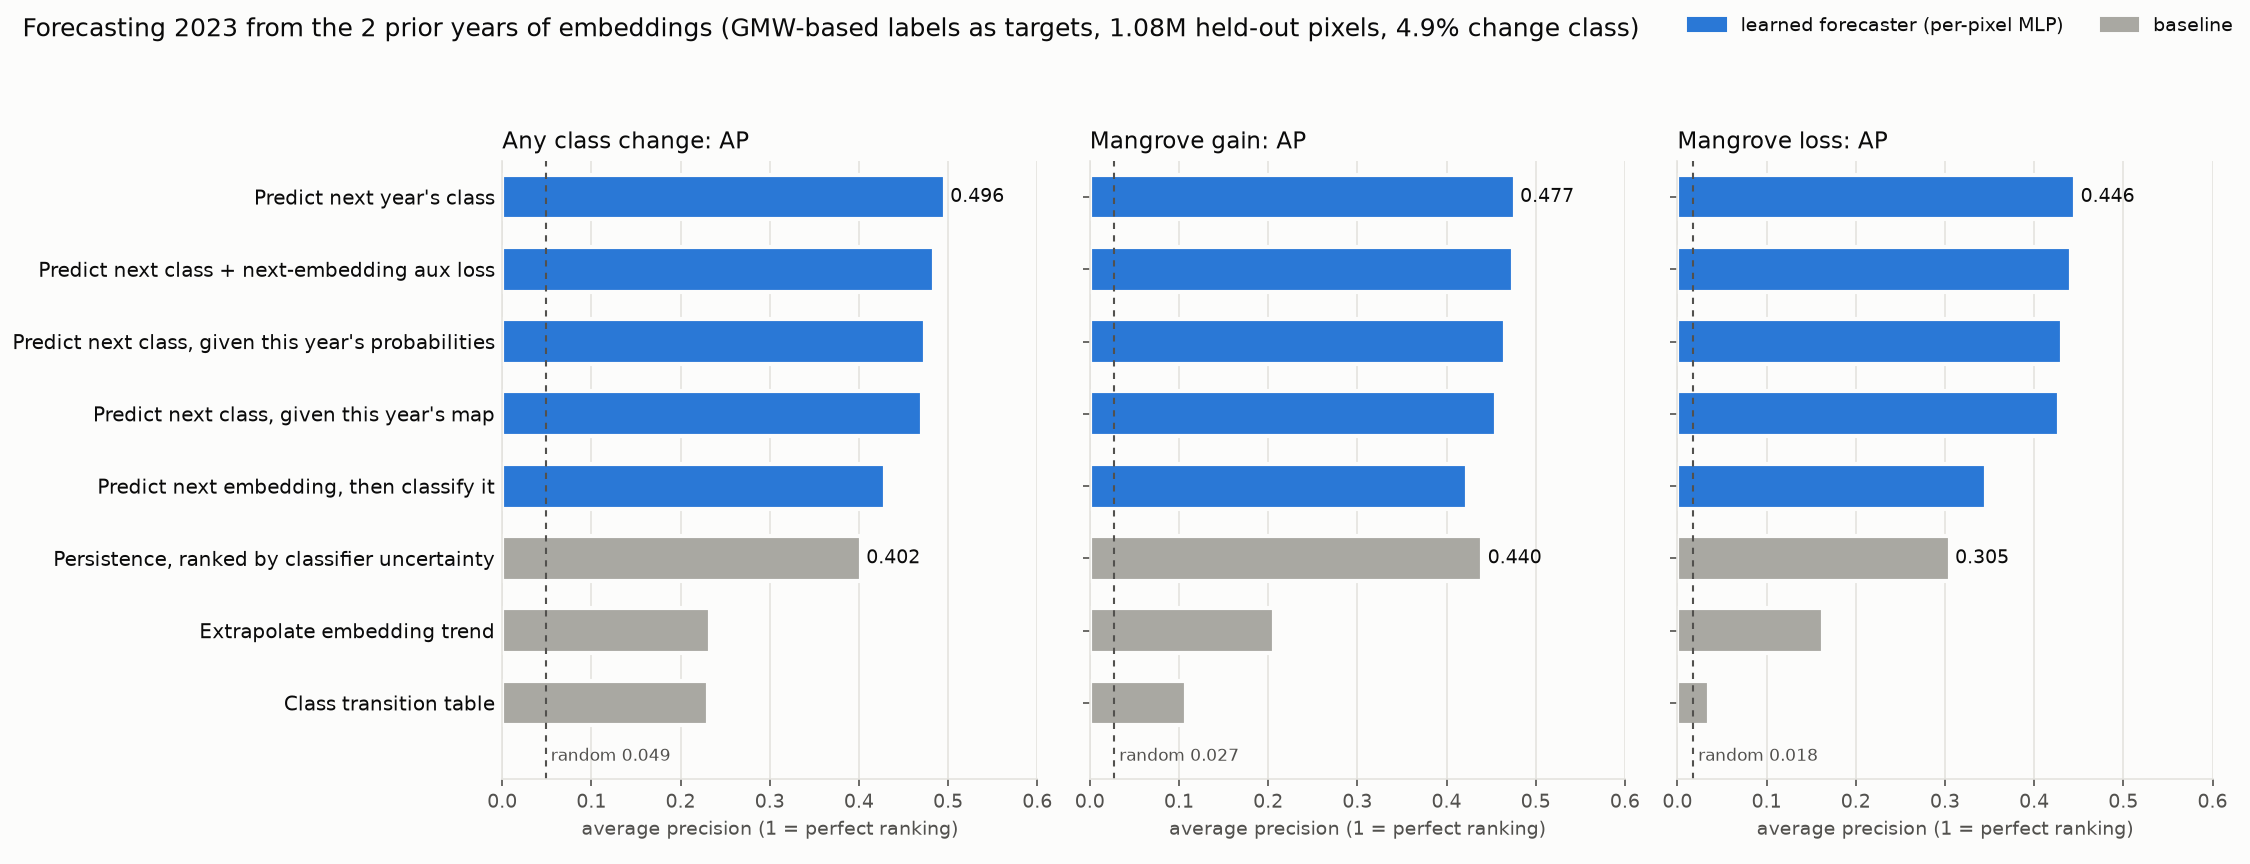
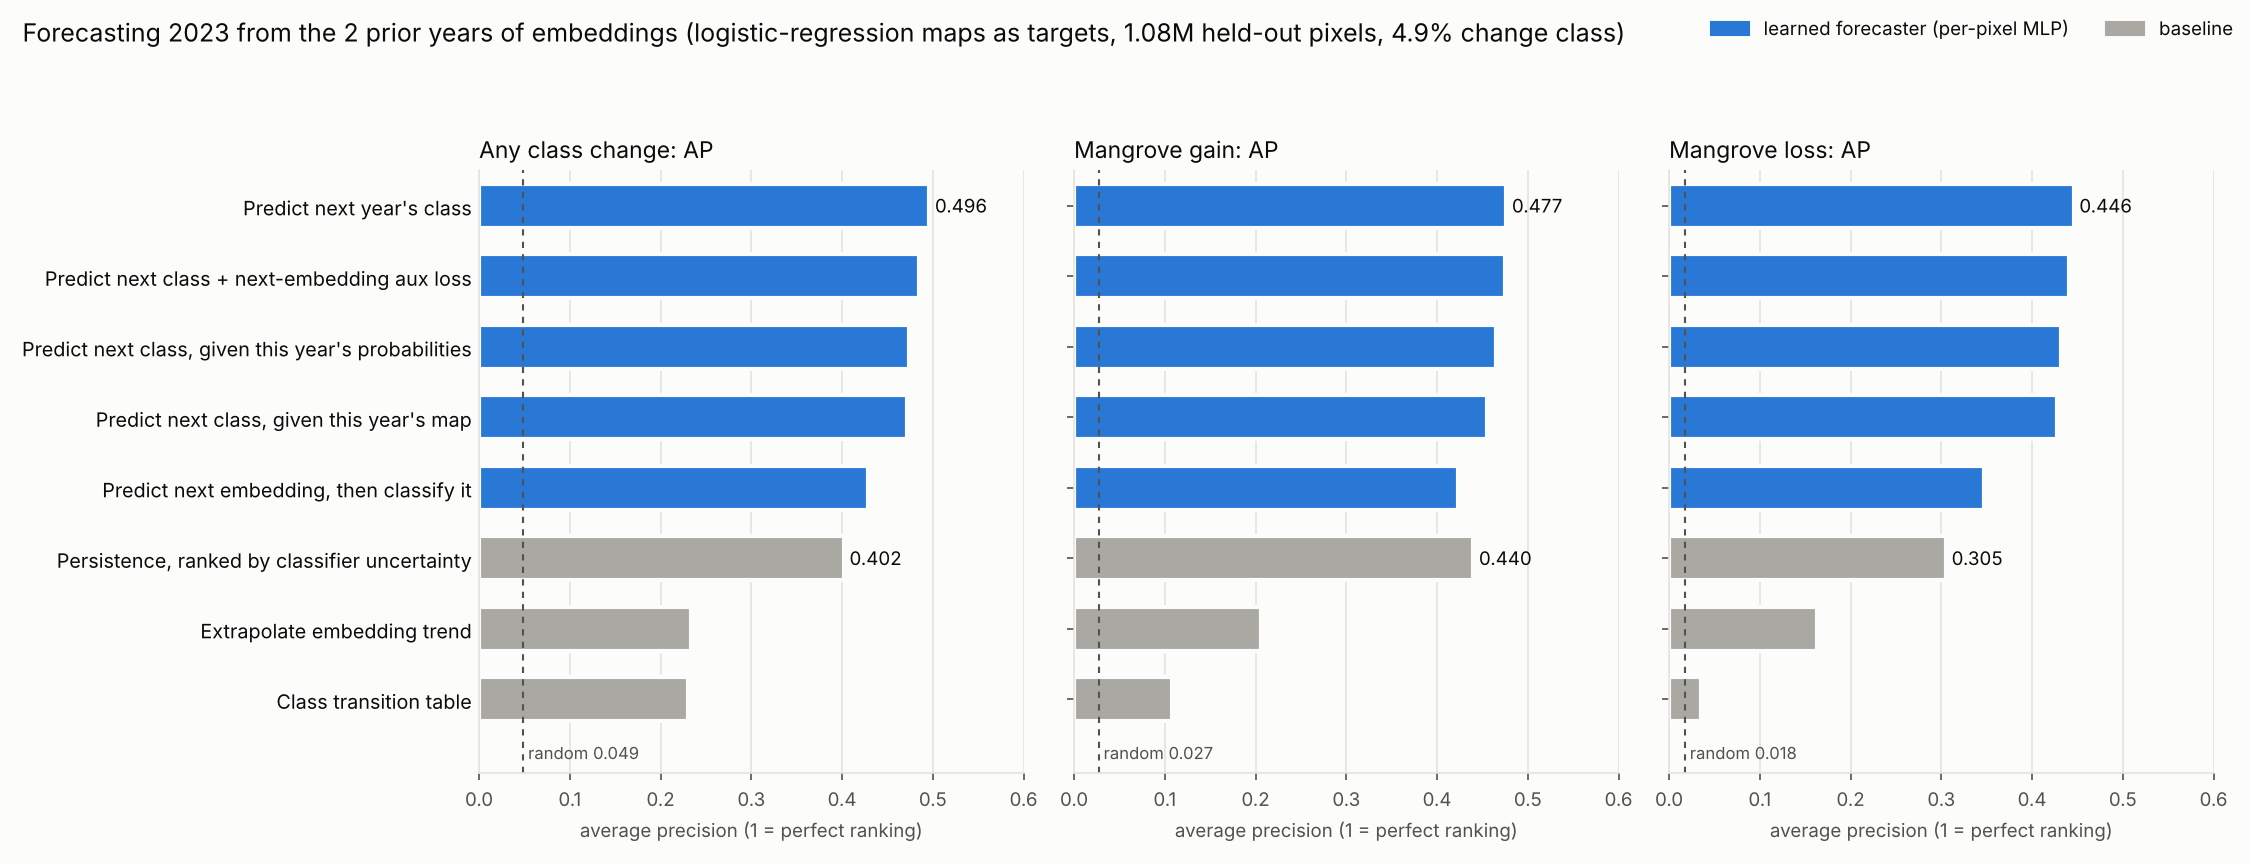
Label each change figure with its training targets; document labels in README
plots.py called every non-'classifier' run 'GMW-based labels', so the
logreg and regularized-MLP figures were mislabeled. Map each --labels
mode to its source, add it to the forecast, transitions and robustness
titles, and regenerate those figures. README: label sources per class
and which labels each experiment trained on.

Claude-Session: https://claude.ai/code/session_01S1GqcnjgEfVNxK5qLgh6NM

diff --git a/src/mangrove_embed/plots.py b/src/mangrove_embed/plots.py
@@ -201,6 +201,13 @@ CHANGE_LABELS = {
 }
 LEARNED = ["next_class", "next_class_emb_aux", "next_embedding", "next_class_given_map",
            "next_class_given_probs"]
+# change --labels -> what the forecasters were trained to predict
+LABEL_SOURCES = {
+    "gmw": "GMW-based labels",
+    "classifier": "MLP classifier maps",
+    "model": "regularized-MLP maps",
+    "logreg": "logistic-regression maps",
+}
 BASE_GREY = "#a9a8a2"
 CHANGE_METRICS = [("change_ap", "changed_frac", "Any class change"),
                   ("gain_ap", "gain_rate", "Mangrove gain"),
@@ -239,7 +246,7 @@ def change_forecast(run_dir, out):
     handles = [matplotlib.patches.Patch(color=BLUE, label="learned forecaster (per-pixel MLP)"),
                matplotlib.patches.Patch(color=BASE_GREY, label="baseline")]
     k, ty = info["config"]["history"], info["test_year"]
-    src = "classifier maps" if info["config"].get("labels") == "classifier" else "GMW-based labels"
+    src = LABEL_SOURCES[info["config"].get("labels", "gmw")]
     fig.suptitle(f"Forecasting {ty} from the {k} prior year{'s' if k > 1 else ''} of embeddings "
                  f"({src} as targets, {a.px.iloc[0] / 1e6:.2f}M held-out pixels, "
                  f"{100 * a.changed_frac.iloc[0]:.1f}% change class)", x=0.01, ha="left",
@@ -361,8 +368,9 @@ def change_transitions(run_dir, out):
     fig.legend(*ax.get_legend_handles_labels(), frameon=False, fontsize=9, loc="lower right",
                ncol=3, labelcolor=INK, bbox_to_anchor=(0.97, 0.0))
     info = json.loads((d / "change.json").read_text())
-    fig.suptitle(f"Forecasting {info['test_year']}: class transitions ({a.px.iloc[0] / 1e6:.2f}M "
-                 f"held-out pixels, {100 * a.changed_frac.iloc[0]:.1f}% change class)",
+    src = LABEL_SOURCES[info["config"].get("labels", "gmw")]
+    fig.suptitle(f"Forecasting {info['test_year']}: class transitions ({src} as targets, "
+                 f"{a.px.iloc[0] / 1e6:.2f}M held-out pixels, {100 * a.changed_frac.iloc[0]:.1f}% change class)",
                  x=0.01, ha="left", color=INK, fontsize=12)
     fig.subplots_adjust(left=0.08, right=0.98, bottom=0.22, top=0.86)
     fig.savefig(out, dpi=150, facecolor=SURFACE)
@@ -385,6 +393,7 @@ def change_robustness(run_dirs, out_png, out_csv):
         s = pd.read_csv(Path(d) / "summary.csv")
         s = s[s.region == "all"].assign(test_year=info["test_year"], seed=info["config"]["seed"])
         rows.append(s)
+    src = LABEL_SOURCES[info["config"].get("labels", "gmw")]
     df = pd.concat(rows, ignore_index=True)
     cols = [c for m in ROBUST_METRICS for c in m[:2] if c in df]
     agg = (df[df.method.isin([m for m, _ in ROBUST_METHODS])]
@@ -418,8 +427,8 @@ def change_robustness(run_dirs, out_png, out_csv):
     h, l = np.atleast_1d(axes)[0].get_legend_handles_labels()
     fig.legend(h, l, loc="lower center", ncol=len(l), frameon=False, fontsize=9, labelcolor=INK)
     n = df.seed.nunique()
-    fig.suptitle(f"Forecast robustness: {n} seeds x {len(years)} forecast years (dot = mean, "
-                 "bar = seed range). Durable = change still present the next year, so it needs "
+    fig.suptitle(f"Forecast robustness ({src} as targets): {n} seeds x {len(years)} forecast years "
+                 "(dot = mean, bar = seed range). Durable = change still present the next year, so it needs "
                  "a later year.", x=0.01, ha="left", color=INK, fontsize=11)
     fig.tight_layout(rect=(0, 0.08, 1, 0.92))
     fig.savefig(out_png, dpi=150, facecolor=SURFACE)

diff --git a/README.md b/README.md
@@ -31,10 +31,28 @@ hardest region and the one where logistic regression falls behind.*
 ## 1. Data and methods
 - **Inputs:** AlphaEarth annual embeddings on each region's native UTM 10 m grid.
 - **Labels:** 11 exclusive classes, a Python port of the v3 Code Editor script
-  (`legacy/mangrove_training_knn.js`): Global Mangrove Watch (GMW) v3 2020 mangroves plus hard
-  negatives, an ambiguity mask, and sampling limited to 5 km of mangrove.
-  Classes: 1 mangrove · 2 salt marsh · 3 tidal flat · 4 water · 5 seasonal water · 6 built-up ·
-  7 barren · 8 coastal forest · 9 cropland · 10 herbaceous wetland · 11 other land.
+  (`legacy/mangrove_training_knn.js`), built from existing global products:
+
+  | class | source |
+  |---|---|
+  | 1 mangrove | Global Mangrove Watch (GMW) v3 extent |
+  | 2 salt marsh | GWL_FCS30 wetland map (186) and ESA WorldCover (90) |
+  | 3 tidal flat | GWL_FCS30 (187) and WorldCover (60 / 80 / 90) |
+  | 4 water, 5 seasonal water | JRC Global Surface Water: ≥ 10 / 1-9 months a year |
+  | 6 built-up | WorldCover (50) or GHSL built-up ≥ 50% |
+  | 7 barren, 8 coastal forest, 9 cropland | WorldCover (60, 10, 40) |
+  | 10 herbaceous wetland, 11 other land | WorldCover (90; 20 / 30 / 70 / 100) |
+
+  Pixels that WorldCover or GWL_FCS30 call mangrove but the label does not are masked as ambiguous. Non-mangrove
+  classes are only sampled within 5 km of mangrove.
+- **Training labels per experiment:**
+  - **Mapping (2.1-2.3):** these labels for **2020**, the last GMW v3 year.
+  - **Change (2.4):** a classifier is first fit on these labels for **2017-2020** (the GMW v3
+    years that have embeddings). Its map for every year from 2017 to 2025 is then the target the
+    forecasters learn. Three classifiers are used: an MLP trained inside the change run (Fig. 3),
+    logistic regression (Fig. 4 and the shipped model) and a regularized per-pixel MLP trained
+    with `train-seg` on all 11 regions (Fig. 5). Training forecasters directly on the labels
+    fails (see 2.4).
 - **Regions:** Sundarbans, Mekong, Mahakam, Matang, Niger Delta, Pará, Papua, Everglades, Rufiji,
   Jamaica, Mexico Pacific (`configs/default.yaml`), plus Baja California north as an unseen test region.
 - **Samples:** 128 × 128 px chips (1.28 km), 300 per region, half centred on mangrove.
@@ -44,8 +62,7 @@ hardest region and the one where logistic regression falls behind.*
   - Unseen region: pooled training without Mexico Pacific, tested on Baja north.
 - **Metric:** mangrove IoU; average precision (AP) when ranking. Seeds 0-2 unless noted.
 - **Change:** matched pixels for 2017-2025 (400 chips per region, 100 centred on GMW change).
-  Targets are a frozen classifier's yearly maps. Forecasters see the embeddings of the k prior
-  years and are tested on held-out blocks.
+  Forecasters see the embeddings of the k prior years and are tested on held-out blocks.
 
 ## 2. Results
 ### 2.1 Model choice
@@ -79,22 +96,28 @@ Adding mean-pooled neighbourhoods (30-310 m) to the regularized MLP changes IoU 
 
 ### 2.4 Forecasting change
 ![Change forecast](results/change/change_forecast.png)
-*Figure 3. Forecasting 2025 from 2023-2024: how well each method ranks the pixels that change.
-Learned forecasters (blue) beat every baseline (grey).*
+*Figure 3. Forecasting 2025 from 2023-2024, with MLP-classifier maps as targets: how well each
+method ranks the pixels that change. Learned forecasters (blue) beat every baseline (grey).*
 
 - **Predict the class directly.** Predicting the embedding first is worse; an auxiliary
   next-embedding loss, or giving the model this year's map, adds nothing.
 - **Two prior years beat one; three add nothing.**
+- **The labels themselves cannot be forecast.** Trained directly on the yearly labels
+  (forecasting 2020), every method ranks mangrove change near random (AP ≤ 0.05). About 70% of
+  that label change is tidal flat ↔ water flicker in GWL_FCS30, and GMW's yearly mangrove
+  changes are barely visible in the embeddings. Hence the classifier maps as targets.
 - **Accuracy does not move** (0.94, same as persistence). What improves is *where* change is
   expected: the forecaster gets the new class right on 35% of changed pixels.
 
 ![Robustness](results/change/robustness_logreg.png)
-*Figure 4. Three seeds × three forecast years, with water and tidal flat merged. The forecaster
+*Figure 4. Logistic-regression maps as targets, water and tidal flat merged, three seeds × three
+forecast years. The forecaster
 (blue) beats persistence (grey) every year, by more on durable change. The mangrove-specific
 margins are within seed spread in some years.*
 
 ![Class transitions](results/change/change_model_k2_s0/transitions.png)
-*Figure 5. Left: what changing pixels become. Tidal flat → water alone is 21% of change.
+*Figure 5. Regularized-MLP maps as targets. Left: what changing pixels become. Tidal flat → water
+alone is 21% of change.
 Right: forecasting helps most for barren, other land, tidal flat and mangrove, and not at all for
 water, salt marsh or cropland.*
 
